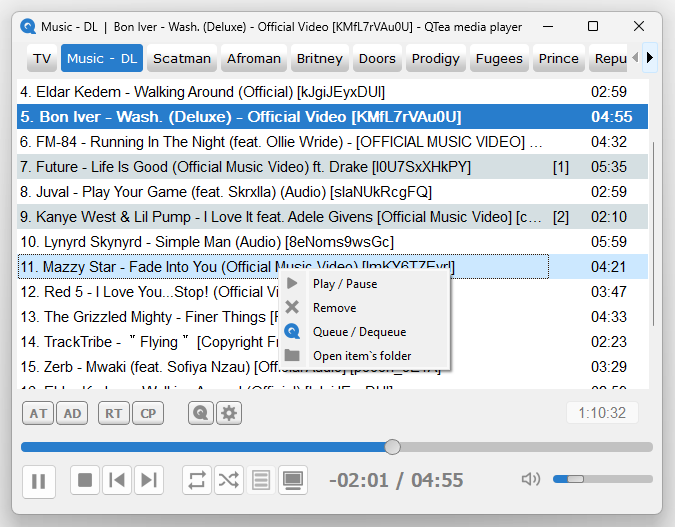
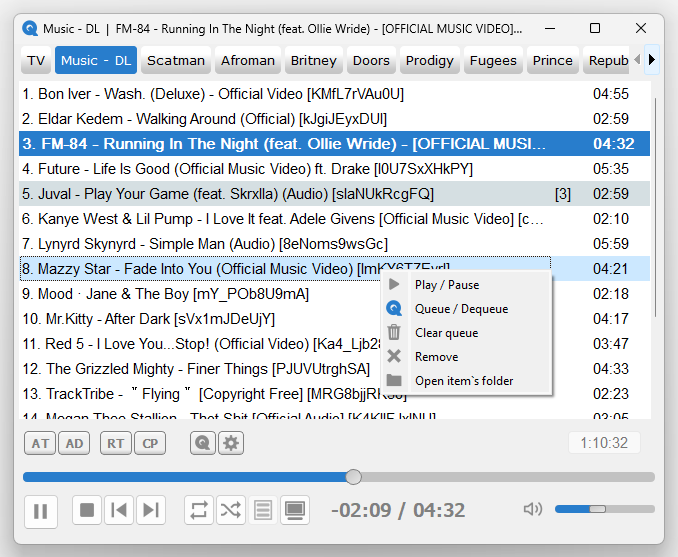
clear queue added, add to queue->search result update, readme: new screens. / minor updates

diff --git a/src/func_coll.py b/src/func_coll.py
@@ -276,11 +276,11 @@ def queue_window_remove_track(current_queue_index):
 
 def queue_add_remove_track():
     ''' queue_tracking_title - unique value pair/list to track the queued records
-        queue_tracking_title = [current playlist, current row/track index]
+        queue_tracking_title = [current playlist, current row/track index] = [playlist_3, 6]
         queue_playlists_list = [queue_tracking_title 1, queue_tracking_title 2, ...]
 
         queue_playlists_list - collecting all the playlist where at least one track is queued
-        queue_playlists_list = [playlist title 1, playlist title 2, ..]
+        queue_playlists_list = [playlist_5, playlist_2, ..]
 
         add record to queue -> queue_tracking_title generated -> added to the queue_playlists_list
                             -> current playlist added to the queue_playlists_list
@@ -290,7 +290,7 @@ def queue_add_remove_track():
 
     cv.queue_tracking_title = [cv.active_db_table, cv.current_track_index]
 
-    ''' QUEUED TRACK '''
+    # STABDARD -> QUEUED TRACK
     if not cv.queue_tracking_title in cv.queue_tracks_list:
 
         cv.queue_tracks_list.append(cv.queue_tracking_title)
@@ -307,7 +307,7 @@ def queue_add_remove_track():
         queue_window_add_track()
         
     
-        ''' DEQUEUE / STANDARD TRACK '''
+    # DEQUEUE -> STANDARD TRACK
     else:
         current_queue_index = cv.queue_tracks_list.index(cv.queue_tracking_title)
         queue_window_remove_track(current_queue_index)
@@ -319,6 +319,8 @@ def queue_add_remove_track():
         if cv.current_track_index != cv.playing_pl_last_track_index:
         
             update_dequeued_track_style(cv.current_track_index)
+    
+    search_result_queue_number_update()
 
 
 def update_queued_track_style(current_track_index):
@@ -362,12 +364,15 @@ def update_dequeued_track_style(current_track_index):
             'white'
             )
 
-def update_queued_tracks_order_number():
+def update_queued_tracks_order_number(clear_queue = False):
     for index, item in enumerate(cv.queue_tracks_list):
         playlist = item[0]
         track_index = item[1]
         queue_list_widget = cv.playlist_widget_dic[playlist]['queue_list_widget']
-        queue_new_order_number = f'[{index + 1}]'
+        if clear_queue:
+            queue_new_order_number = ''
+        else:
+            queue_new_order_number = f'[{index + 1}]'
         queue_list_widget.item(track_index).setText(queue_new_order_number)
 
 
@@ -477,11 +482,15 @@ def get_playlist_details_from_seacrh_tab_list(current_row_index):
 
 def search_result_queue_number_update():
     '''
-    Updating the queue numbers in the Search tab
+    Paylists - queue/dequeue track --> Update the queue numbers in the Search tab
     - cv.queue_tracks_list = [[playlist_3, 4], [playlist_4, 2], ..]
     - playing a queued track: [2] 
         -> queue number update -> [2] to ''
-        -> update the rest of the queue numbers
+        -> update the rest of the queue numbers: [1], . , <-[3], <-[4], ..
+    
+    Why seperate the queue, dequeue number update as below?
+    - Dequeue: do not need to iterate through all the search results
+    - At least the dequeue part is efficient
     '''
     
     def search_result_queued_tracks_index_list():
@@ -491,23 +500,64 @@ def search_result_queue_number_update():
                 queued_tracks_index_list.append(index)
         return queued_tracks_index_list
     
+
     if cv.search_result_dic:
 
         search_tab_queued_tracks_index_list = search_result_queued_tracks_index_list()
         index_for_remove_queue_number = search_tab_queued_tracks_index_list
 
-        for tracking_title in cv.queue_tracks_list:
+        # DEQUEUE
+        if len(cv.queue_tracks_list) < len(search_tab_queued_tracks_index_list):
+            for tracking_title in cv.queue_tracks_list:
 
-            for search_result_index in search_tab_queued_tracks_index_list:
+                for search_result_index in search_tab_queued_tracks_index_list:
 
-                playlist = cv.search_result_dic[search_result_index]['playlist']
-                track_index = cv.search_result_dic[search_result_index]['track_index']
+                    playlist = cv.search_result_dic[search_result_index]['playlist']
+                    track_index = cv.search_result_dic[search_result_index]['track_index']
 
-                if tracking_title == [playlist, track_index]:
-                        
+                    if tracking_title == [playlist, track_index]:
+                            
+                            queue_number = f'[{cv.queue_tracks_list.index(tracking_title) + 1}]'
+                            cv.search_queue_list_widget.item(search_result_index).setText(queue_number)
+                            index_for_remove_queue_number.remove(search_result_index)
+            
+            if index_for_remove_queue_number:
+                cv.search_queue_list_widget.item(index_for_remove_queue_number[0]).setText('')
+        
+        # QUEUE
+        else:
+            for tracking_title in cv.queue_tracks_list:
+                for search_result_index in cv.search_result_dic:
+                    playlist = cv.search_result_dic[search_result_index]['playlist']
+                    track_index = cv.search_result_dic[search_result_index]['track_index']
+
+                    if tracking_title == [playlist, track_index]:
+                            
                         queue_number = f'[{cv.queue_tracks_list.index(tracking_title) + 1}]'
                         cv.search_queue_list_widget.item(search_result_index).setText(queue_number)
-                        index_for_remove_queue_number.remove(search_result_index)
-        
-        if index_for_remove_queue_number:
-            cv.search_queue_list_widget.item(index_for_remove_queue_number[0]).setText('')
+
+
+
+
+def clear_queue_update_all_occurrences():  
+    # SEARCH TAB
+    if cv.search_result_dic:
+        for index in cv.search_result_queued_tracks_index_list:
+            cv.search_queue_list_widget.item(index).setText('')
+    
+    # QUEUE TAB
+    for item in cv.queue_widget_dic:
+        title = cv.queue_widget_dic[item]['list_widget_title']
+        list_widget = cv.queue_widget_dic[item]['list_widget']
+        list_widget.clear()
+        add_queue_window_list_widgets_header(title, list_widget)
+    
+    # PLAYLISTS
+    for track_title in cv.queue_tracks_list:
+        playlist = track_title[0]
+        track_index = track_title[1]
+        update_dequeued_track_style_from_queue_window(playlist, track_index)
+
+    update_queued_tracks_order_number(clear_queue = True)
+    cv.queue_tracks_list.clear()
+    cv.queue_playlists_list.clear()

diff --git a/src/list_widget_playlists.py b/src/list_widget_playlists.py
@@ -17,7 +17,8 @@ from .message_box import MyMessageBoxError
 from .func_coll import (
     get_path_db,
     queue_add_remove_track,
-    remove_track_from_playlist
+    remove_track_from_playlist,
+    clear_queue_update_all_occurrences
     )
 
 
@@ -40,8 +41,9 @@ class MyListWidget(QListWidget):
         icon = MyIcon()
         self.context_menu_dic = { 
             'Play / Pause': {'icon': icon.start},
-            'Remove': {'icon': icon.remove},
             'Queue / Dequeue': {'icon': icon.queue_blue},
+            'Clear queue': {'icon': icon.clear_queue},
+            'Remove': {'icon': icon.remove},
             'Open item`s folder': {'icon': icon.folder},
             }   
 
@@ -77,19 +79,30 @@ class MyListWidget(QListWidget):
             except:
                 MyMessageBoxError('File location', 'The file`s home folder has been renamed / removed. ')
         
-        # REMOVE TRACK
+
+        # QUEUE
         elif q.text() == list(self.context_menu_dic)[1]:
+            queue_add_remove_track()
+        
+
+        # CLEAR QUEUE
+        elif q.text() == list(self.context_menu_dic)[2]:
+            try:
+                clear_queue_update_all_occurrences()
+            except:
+                MyMessageBoxError('Sorry, something went wrong.')
+        
+
+        # REMOVE TRACK
+        elif q.text() == list(self.context_menu_dic)[3]:
             try:
                 remove_track_from_playlist()
             except:
                 MyMessageBoxError('File location', 'The file`s home folder has been renamed / removed. ')
         
-        # QUEUE
-        elif q.text() == list(self.context_menu_dic)[2]:
-            queue_add_remove_track()
         
         # FOLDER
-        elif q.text() == list(self.context_menu_dic)[3]:
+        elif q.text() == list(self.context_menu_dic)[4]:
             try:
                 file_path = get_path_db(self.currentRow(), cv.active_db_table)
                 webbrowser.open(Path(file_path).parent)

diff --git a/src/list_widget_queue_tab.py b/src/list_widget_queue_tab.py
@@ -19,7 +19,8 @@ from .func_coll import (
     update_queued_tracks_order_number,
     update_dequeued_track_style_from_queue_window,
     queue_window_remove_track,
-    get_playlist_details_from_queue_tab_list
+    get_playlist_details_from_queue_tab_list,
+    clear_queue_update_all_occurrences
     )
 
 
@@ -36,6 +37,7 @@ class MyQueueListWidget(QListWidget):
         self.context_menu_dic = { 
             'Play': {'icon': icon.start},
             'Dequeue': {'icon': icon.de_queue},
+            'Clear queue': {'icon': icon.clear_queue},
             'Jump to playlist': {'icon': icon.toggle_playlist},
             'Open item`s folder': {'icon': icon.folder},
             }   
@@ -78,17 +80,26 @@ class MyQueueListWidget(QListWidget):
                 self.dequeue_track()
             except:
                 MyMessageBoxError('Sorry, something went wrong.')
+
+
+        # CLEAR QUEUE
+        elif q.text() == list(self.context_menu_dic)[2]:
+            try:
+                clear_queue_update_all_occurrences()
+            except:
+                MyMessageBoxError('Sorry, something went wrong.')
         
 
         # JUMP TO PLAYLIST
-        elif q.text() == list(self.context_menu_dic)[2]:
+        elif q.text() == list(self.context_menu_dic)[3]:
             try:
                 self.jump_to_playlist()
             except:
                 MyMessageBoxError('Sorry, something went wrong.')
 
+
         # FOLDER
-        elif q.text() == list(self.context_menu_dic)[3]:
+        elif q.text() == list(self.context_menu_dic)[4]:
             try:
                 self.open_track_folder()
             except:

diff --git a/src/window_queue_and_search.py b/src/window_queue_and_search.py
@@ -351,6 +351,7 @@ class MyQueueWindow(QWidget):
         
         result_counter = 0
         cv.search_result_dic = {}
+        cv.search_result_queued_tracks_index_list = []
         
         for playlist in cv.playlist_widget_dic:
             playlist_title = cv.playlist_widget_dic[playlist]['line_edit'].text()
@@ -361,6 +362,8 @@ class MyQueueWindow(QWidget):
                     if self.search_cretaria in track_title.lower():
                         queue_list_widget = cv.playlist_widget_dic[playlist]['queue_list_widget']
                         queue_number = queue_list_widget.item(track_index).text()
+                        if queue_number:
+                            cv.search_result_queued_tracks_index_list.append(result_counter)
 
                         cv.search_result_dic[result_counter] = {
                             'track_title': track_title,

diff --git a/src/func_play_coll.py b/src/func_play_coll.py
@@ -207,7 +207,7 @@ class PlaysFunc():
             self.av_player.base_played = True
 
             if cv.play_at_startup == 'True' and not cv.played_at_startup_counter:
-                time.sleep(0.1) # otherwise media loading error occurs / not mediastatus problem
+                time.sleep(0.01) # otherwise media loading error occurs / not a mediastatus problem
                 self.play_track()
 
         cv.played_at_startup_counter = True

diff --git a/src/icons.py b/src/icons.py
@@ -28,3 +28,4 @@ class MyIcon():
         self.remove = QIcon(f'skins/{cv.skin_selected}/remove.png')
 
         self.search = QIcon(f'skins/{cv.skin_selected}/search.png')
+        self.clear_queue = QIcon(f'skins/{cv.skin_selected}/bin.png')

diff --git a/src/cons_and_vars.py b/src/cons_and_vars.py
@@ -516,5 +516,6 @@ class Data:
     search_title_list_widget = None   
     search_queue_list_widget = None
     track_change_on_main_playlist_new_search_needed = False
+    search_result_queued_tracks_index_list = []
 
 cv = Data()

diff --git a/README.md b/README.md
@@ -1,12 +1,11 @@
 ## Main features
 - Thirty playlists supported by default. More can be generated.
 - Cross playlists queue management with dedicated window.
-- Start from the latest point.
+- Cross playlists search.
+- Start media from the latest point.
 - Start the last played media at startup.
 - Quick switch to alternative window mode / size.
 - Playlists saved by default.
-- Planned to add:
-    - Cross playlists search window
 - QTea media player can be a viable option for highly organised contentgoers and house party DJs. Inspired by `Winamp` and `VLC media player`.
 
 <div align="left">
@@ -23,6 +22,11 @@
 <br>
 <div align="left">
     <img src="docs/promo/screenshot_3.png">
+</div>
+<br>
+<br>
+<div align="left">
+    <img src="docs/promo/screenshot_4.png">
 </div>
 <br>
 
@@ -134,3 +138,4 @@
 - Tested on Windows 11
 
 ## Thank you all who worked on the modules used in this project!
+## Thank you all Winamp and VLC player contributors!
